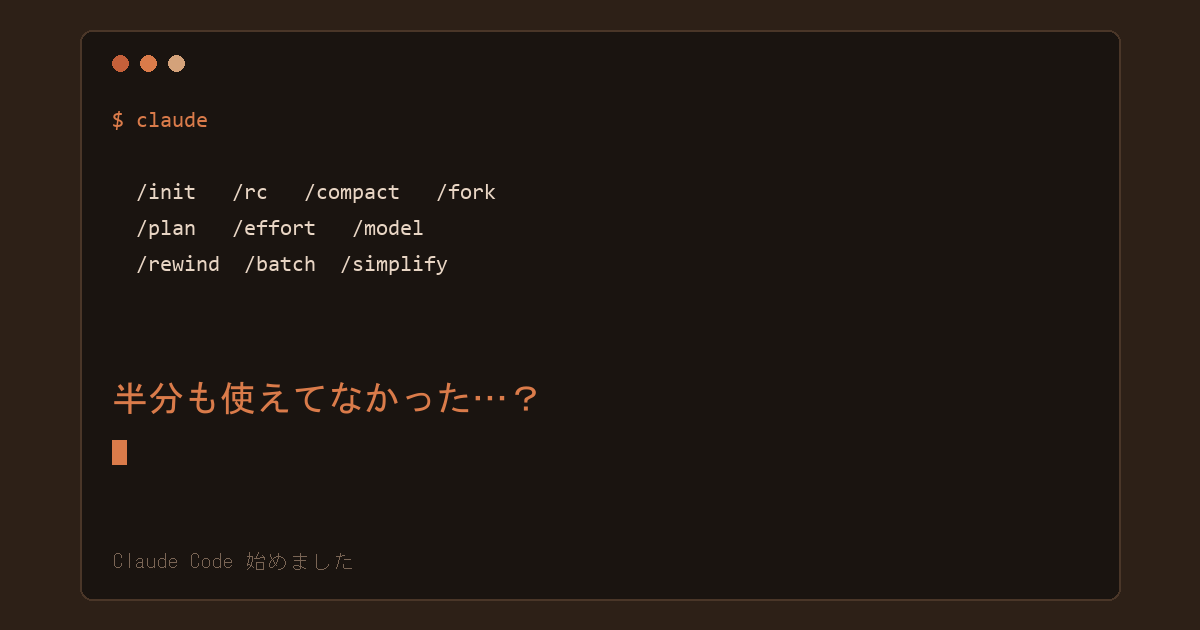
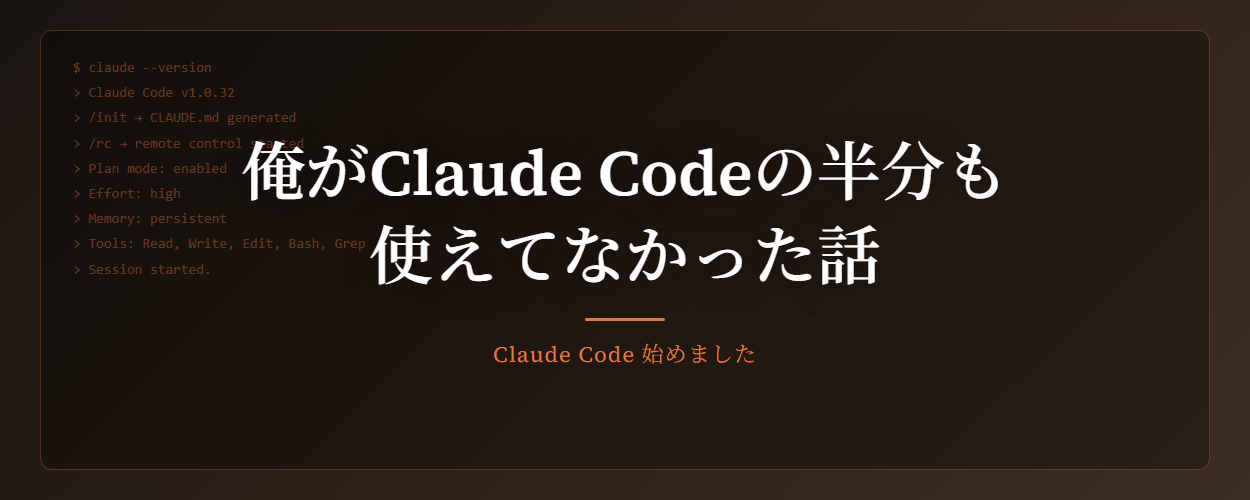
Add cover images to all articles with terminal-style design
- Generate cover images for all 10 articles via Playwright
- Add single.html override to display cover images on article pages
- Add cover.image frontmatter to articles missing it

diff --git a/layouts/_default/single.html b/layouts/_default/single.html
@@ -1,0 +1,143 @@
+{{- define "main" -}}
+
+<article>
+  {{- if .Params.cover.image -}}
+  {{- $cover := .Page.Resources.GetMatch .Params.cover.image -}}
+  {{- if $cover -}}
+  <img
+    class="my-0 mb-8 w-full rounded-lg"
+    src="{{- $cover.RelPermalink -}}"
+    alt="{{- .Title -}}"
+  />
+  {{- end -}}
+  {{- end -}}
+
+  <header class="mb-14">
+    <h1 class="my-0! pb-2.5">{{- .Title -}}</h1>
+
+    {{- if ne .Type "page" -}}
+    <div class="text-xs antialiased opacity-60">
+      {{- if .Date -}}
+      <time>{{- .Date | time.Format ":date_medium" -}}</time>
+      {{- end -}}<!---->
+      {{- $single_author := or .Params.author site.Params.author -}}
+      <!---->
+      {{- if $single_author -}}
+      <span class="mx-1">&middot;</span>
+      <span>{{- $single_author -}}</span>
+      {{- end -}}
+    </div>
+    {{- end -}}
+  </header>
+
+  <section>{{- .Content -}}</section>
+
+  <!-- Post Tags -->
+  {{- if .Params.tags -}}
+  <footer class="mt-12 flex flex-wrap">
+    {{- range .Params.tags -}} {{- $href := print (absURL "tags/") (urlize .)
+    -}}
+    <a
+      class="mb-1.5 rounded-lg bg-black/[3%] px-5 py-1 no-underline hover:bg-black/[6%] ltr:mr-1.5 rtl:ml-1.5 dark:bg-white/[8%] dark:hover:bg-white/[12%]"
+      href="{{- $href -}}"
+      >{{- . -}}</a
+    >
+    {{- end -}}
+  </footer>
+  {{- end -}}
+
+  <!-- Post Nav -->
+  {{- if not site.Params.disablePostNavigation -}}<!---->
+  {{- $pages := where site.RegularPages "Type" "in" site.Params.mainSections -}}<!---->
+  {{- if and (gt (len $pages) 1) (in $pages . ) -}}
+  <nav
+    class="mt-24 flex overflow-hidden rounded-xl bg-black/[3%] text-lg leading-[1.2]! *:flex *:w-1/2 *:items-center *:p-5 *:font-medium *:no-underline dark:bg-white/[8%] [&>*:hover]:bg-black/[2%] dark:[&>*:hover]:bg-white/[3%]"
+  >
+    {{- with $pages.Next . -}}
+    <a class="ltr:pr-3 rtl:pl-3" href="{{- .Permalink -}}"
+      ><span class="ltr:mr-1.5 rtl:ml-1.5">←</span><span>{{- .Name -}}</span></a
+    >
+    {{- end -}}<!---->
+    {{- with $pages.Prev . -}}
+    <a
+      class="justify-end pl-3 ltr:ml-auto rtl:mr-auto"
+      href="{{- .Permalink -}}"
+      ><span>{{- .Name -}}</span><span class="ltr:ml-1.5 rtl:mr-1.5">→</span></a
+    >
+    {{- end -}}
+  </nav>
+  {{- end -}}<!---->
+  {{- end -}}
+
+  <!-- Disqus -->
+  {{- if and site.Config.Services.Disqus.Shortname (not (eq .Params.comments
+  false)) -}}
+  <div class="mt-24! text-black dark:text-white" id="disqus_thread"></div>
+  <script>
+    const disqusShortname = '{{- site.Config.Services.Disqus.Shortname -}}';
+    const script = document.createElement('script');
+    script.src = 'https://' + disqusShortname + '.disqus.com/embed.js';
+    script.setAttribute('data-timestamp', +new Date());
+    document.head.appendChild(script);
+  </script>
+  {{- end -}}
+
+  <!-- GraphComment -->
+  {{- if and site.Params.graphCommentId (not (eq .Params.comments false)) -}}
+  <div class="mt-24! text-black dark:text-white" id="graphcomment"></div>
+  <script type="text/javascript">
+    var __semio__params = {
+      graphcommentId: '{{- site.Params.graphCommentId  -}}',
+      behaviour: {
+        //  uid: "...",
+      },
+      // configure your variables here
+    };
+
+    function __semio__onload() {
+      __semio__gc_graphlogin(__semio__params);
+    }
+
+    (function () {
+      var gc = document.createElement('script');
+      gc.type = 'text/javascript';
+      gc.async = true;
+      gc.onload = __semio__onload;
+      gc.defer = true;
+      gc.src =
+        'https://integration.graphcomment.com/gc_graphlogin.js?' + Date.now();
+      (
+        document.getElementsByTagName('head')[0] ||
+        document.getElementsByTagName('body')[0]
+      ).appendChild(gc);
+    })();
+  </script>
+  {{- end -}}
+
+  <!-- mermaid -->
+  {{- partial "mermaid.html" . -}}
+
+  <!-- giscus comment -->
+  {{- if and site.Params.giscus.repo (not (eq .Params.comments false)) -}}
+  <div class="giscus mt-24! text-black dark:text-white"></div>
+  <script
+    src="https://giscus.app/client.js"
+    data-repo="{{- site.Params.giscus.repo -}}"
+    data-repo-id="{{- site.Params.giscus.repoId -}}"
+    data-category="{{- site.Params.giscus.category -}}"
+    data-category-id="{{- site.Params.giscus.categoryId -}}"
+    data-mapping="{{- site.Params.giscus.mapping | default (print `pathname`) -}}"
+    data-strict="{{- site.Params.giscus.strict | default (print `1`) -}}"
+    data-reactions-enabled="{{- site.Params.giscus.reactionsEnabled | default (print `0`) -}}"
+    data-emit-metadata="{{- site.Params.giscus.emitMetadata | default (print `0`) -}}"
+    data-input-position="{{- site.Params.giscus.inputPosition | default (print `top`) -}}"
+    data-theme="{{- site.Params.giscus.theme | default (print `light`) -}}"
+    data-lang="{{- site.Params.giscus.lang | default (print `en`) -}}"
+    data-loading="{{- site.Params.giscus.loading | default (print `lazy`) -}}"
+    crossorigin="anonymous"
+    async
+  ></script>
+  {{- end -}}
+</article>
+
+{{- end -}}

diff --git a/content/post/claude-research-implementation/index.md b/content/post/claude-research-implementation/index.md
@@ -3,6 +3,8 @@ title: "自力じゃ無理なロジック、Claudeと論文から組み立てた
 date: 2026-03-30
 draft: false
 description: "周波数だけじゃ男女判定できなかった。Claudeに学術論文を調べてもらって、実装まで持っていった話"
+cover:
+  image: "cover.png"
 tags: ["Claude Code", "LiveTR"]
 ---
 

diff --git a/content/post/claude-code-deploy/index.md b/content/post/claude-code-deploy/index.md
@@ -3,6 +3,8 @@ title: "サーバーに実装する時にClaudeにSSH使わせたら驚くほど
 date: 2026-04-01
 draft: false
 description: "コピペで相談してた頃の苦労と、ClaudeにSSHでサーバーを直接触らせたら全部変わった話"
+cover:
+  image: "cover.png"
 tags: ["Claude Code", "SSH", "デプロイ"]
 ---
 

diff --git a/content/post/oltranslator-app/index.md b/content/post/oltranslator-app/index.md
@@ -3,6 +3,8 @@ title: "OLTranslator — 画面をそのまま日本語にする翻訳アプリ"
 date: 2026-03-28
 draft: false
 description: "画面上の外国語テキストをOCRで読み取り、日本語訳をその場にオーバーレイ表示するWindows用アプリです"
+cover:
+  image: "cover.png"
 tags: ["OLTranslator"]
 ---
 

diff --git a/content/post/ai-server-management/index.md b/content/post/ai-server-management/index.md
@@ -3,6 +3,8 @@ title: "サーバー管理をAIに丸ごと任せてみた話"
 date: 2026-04-03
 draft: false
 description: "監視・診断・修復・デプロイまで全自動。自宅サーバーの運用をAIに委ねた記録"
+cover:
+  image: "cover.png"
 tags: ["Claude Code", "サーバー管理", "自動化", "Podman"]
 ---
 

diff --git a/content/post/discord-bot-to-saas/index.md b/content/post/discord-bot-to-saas/index.md
@@ -3,6 +3,8 @@ title: "5年育てた自分専用Botを、SaaSにして売り出した話"
 date: 2026-04-01
 draft: false
 description: "ハードコード満載の個人用Discord Botをサービスにするまでの記録"
+cover:
+  image: "cover.png"
 tags: ["Claude Code", "Discord Bot", "SaaS", "Stripe"]
 ---
 
